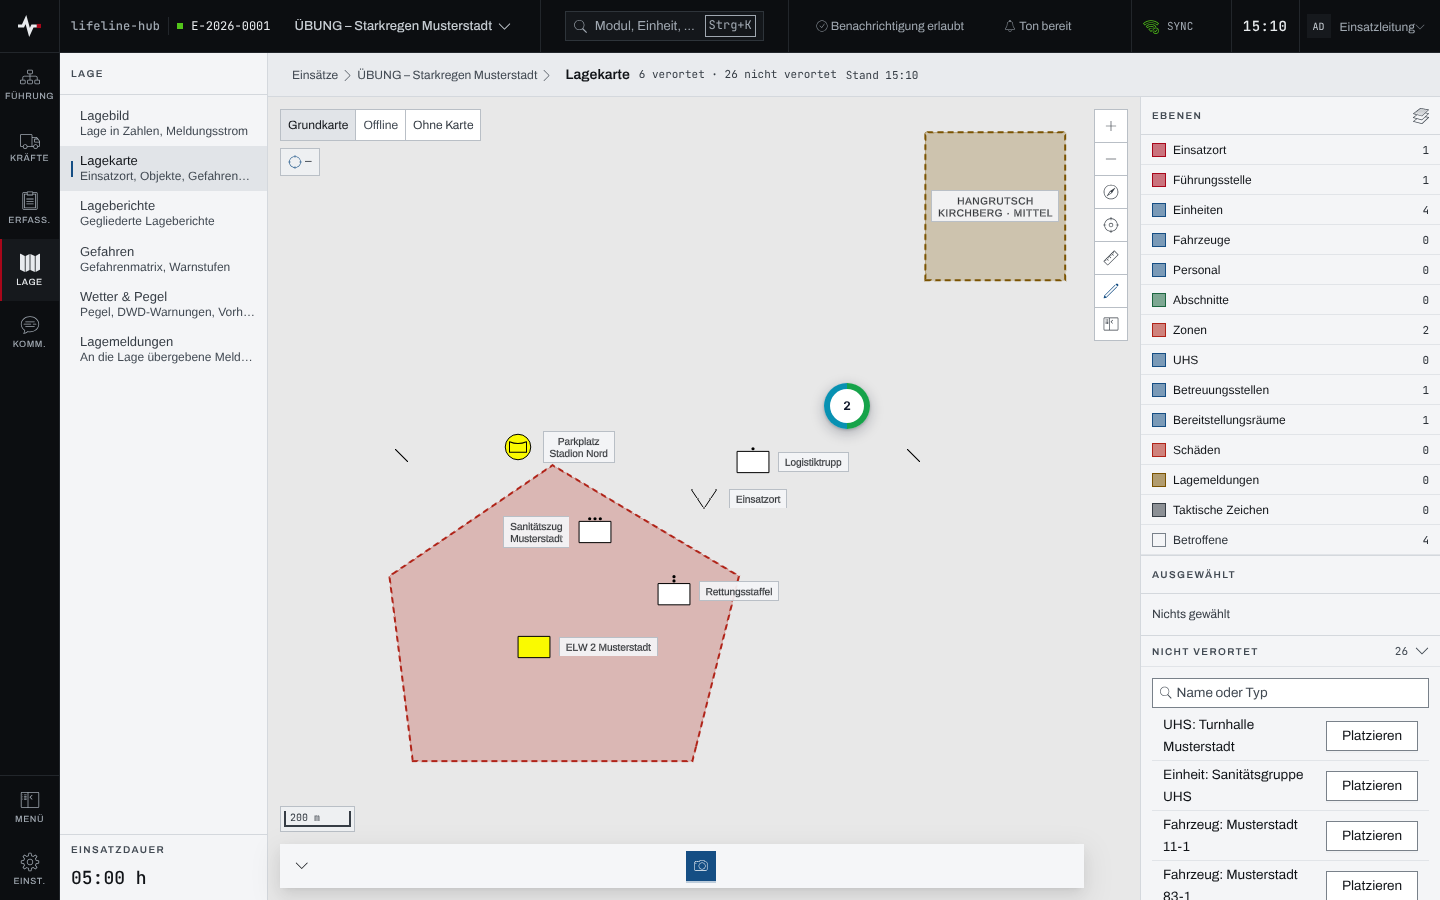
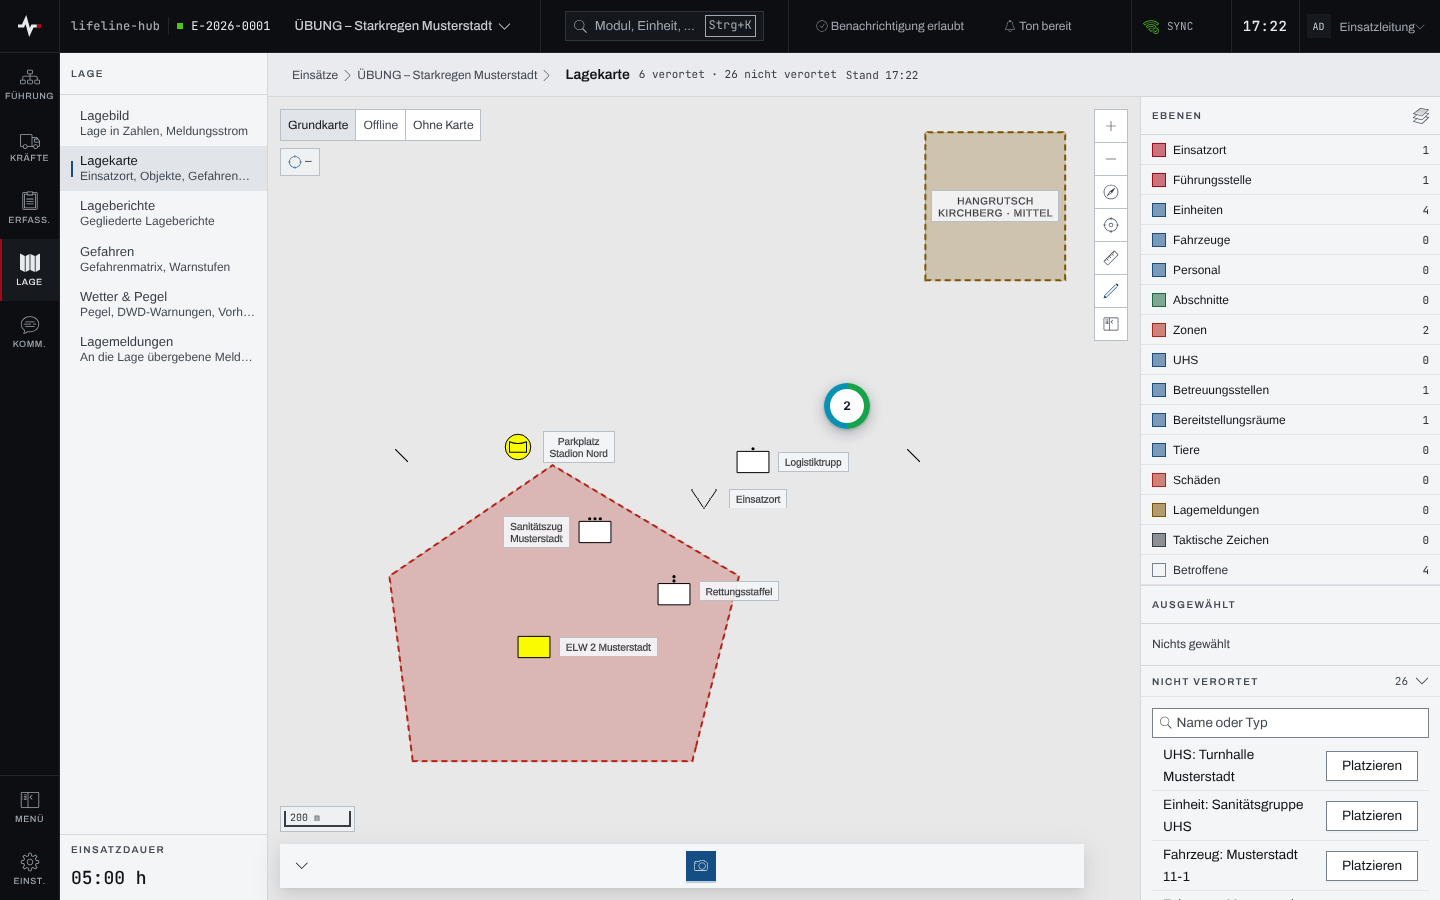
docs(tiere): Tiere auf der Lagekarte in Specs, Agentenregel und Anwenderdoku
Neue Spec tier-lagekarte, Objektsuche und Verortungsauftrag kennen
Tiere. Agentenregel „Tiere auf der Karte“ (Sperre an der Datenquelle,
Kreis mit „T“, bewusst nicht offline). Anwenderdoku: Ablauf „Ein Tier
auf der Lagekarte verorten“, Abschnitt Tiere in der Lagekarte, Bilder
der Lagekarte mit der Zeile „Tiere“ neu erzeugt.

Zunder: https://zunder.rubeen.dev/#/aufgabe/ootn0baux43dboivoge9x5xp

Claude-Session: https://claude.ai/code/session_018Cpy7o1GDJs7bcZgSvmWuh

Changed region(s): [[0.7812, 0.4978, 1.0, 1.0], [0.9688, 0.7467, 1.0, 0.7778]]

diff --git a/openspec/specs/tier-lagekarte/spec.md b/openspec/specs/tier-lagekarte/spec.md
@@ -1,0 +1,183 @@
+# tier-lagekarte Specification
+
+## Purpose
+Ein Tier hat einen Fundort. Neben dem Freitext trägt es eine optionale Koordinate, die ohne
+Tagebucheintrag gesetzt und live verteilt wird und im Lage-Snapshot erscheint, ohne die
+Modulfreigabe zu umgehen; die Schwärzung behält sie als Geo-Skelett. Die Lagekarte zeigt offene
+und vermisste Tiere als eigene Ebene, verortet sie aus der Detailseite oder aus „Nicht verortet“
+und führt zurück zur Detailseite (Gegenstück zu `bereitstellungsraum-lagekarte`).
+
+## Requirements
+
+### Requirement: Fundort-Koordinate eines Tiers
+
+Das System SHALL an einem Tier optional eine Fundort-Koordinate führen, bestehend aus Breite
+`antreff_lat` und Länge `antreff_lon`. Beide Werte MUST gemeinsam gesetzt oder gemeinsam leer
+sein, geprüft gegen den gespeicherten Stand des Tiers. Die Breite MUST zwischen −90 und 90
+liegen, die Länge zwischen −180 und 180; ein Verstoß MUST mit 422 abgelehnt werden, ohne etwas zu
+ändern. Die Koordinate MUST beim Anlegen mitgegeben und über denselben Änderungsweg gesetzt,
+geändert und entfernt werden können wie die übrigen Stammdaten. Fehlt sie in einer Änderung,
+bleibt sie unverändert; ist sie `null`, wird sie entfernt. Die Anzeige eines Tiers MUST die
+Koordinate tragen, wenn eine gesetzt ist, und das Feld sonst weglassen. Der Freitext `antreff_ort`
+MUST daneben unverändert bestehen bleiben.
+
+#### Scenario: Tier verorten
+- **WHEN** eine Person mit Schreibrecht am Tier T-007 `antreff_lat` 52,25 und `antreff_lon` 9,125 setzt
+- **THEN** trägt das Tier diese Koordinate, Liste und Detail liefern sie, und der Fundort-Freitext bleibt stehen
+
+#### Scenario: Anlegen mit Koordinate
+- **WHEN** ein Tier mit Spezies „Hund“, Fundort „Weide am Deich“ und Koordinate angelegt wird
+- **THEN** trägt das neue Tier Fundort und Koordinate
+
+#### Scenario: Nur ein Wert des Paares
+- **WHEN** eine Änderung nur `antreff_lat` setzt und das Tier bisher keine Koordinate hat
+- **THEN** antwortet das System mit 422 und ändert nichts
+
+#### Scenario: Halbes Paar entfernen
+- **WHEN** an einem verorteten Tier nur `antreff_lat` auf `null` gesetzt wird
+- **THEN** antwortet das System mit 422, und die Koordinate bleibt
+
+#### Scenario: Wert außerhalb des Bereichs
+- **WHEN** eine Änderung `antreff_lat` 91 und `antreff_lon` 9 setzt
+- **THEN** antwortet das System mit 422 und ändert nichts
+
+#### Scenario: Verortung entfernen
+- **WHEN** eine Änderung `antreff_lat` und `antreff_lon` jeweils auf `null` setzt
+- **THEN** trägt das Tier keine Koordinate mehr, und seine Anzeige enthält keines der beiden Felder
+
+#### Scenario: Verortung ändert keine anderen Angaben
+- **WHEN** eine Änderung nur die Koordinate setzt
+- **THEN** bleiben Rufname, Fundort, Notiz und Halter unverändert
+
+#### Scenario: Ohne Schreibrecht
+- **WHEN** eine Person mit Rolle „Beobachter“ die Koordinate setzen will
+- **THEN** antwortet das System mit 403
+
+### Requirement: Verortung ohne Tagebucheintrag, aber live
+
+Eine Änderung der Koordinate eines Tiers MUST keinen ETB-Eintrag schreiben. Sie MUST als Änderung
+des Tiers live an alle Personen mit Lesezugriff auf das Modul Tiere verteilt werden (Ereignis
+`tier` mit der Kennung des Tiers). ETB-Einträge des Moduls MUST NOT eine Koordinate enthalten.
+
+#### Scenario: Nur Koordinate geändert
+- **WHEN** ein Tier verortet wird und sonst nichts geändert wird
+- **THEN** entsteht kein ETB-Eintrag
+- **AND** Personen mit Lesezugriff auf das Modul Tiere erhalten ein Live-Ereignis zum Tier
+
+### Requirement: Lage-Snapshot und Schwärzung
+
+Ein Lage-Snapshot SHALL die offenen und vermissten, nicht stornierten Tiere des Einsatzes zum
+Zeitpunkt der Aufnahme einfrieren, mit Registriernummer, Status, Spezies, Rufname, Fundort und
+Koordinate, MUST NOT aber Halter, Kennzeichnung oder Notiz. Beim Abruf, beim Sichern und beim
+Ändern eines Standes MUST die Antwort diese Inhalte für Personen ohne Lesezugriff auf das Modul
+Tiere weglassen. Ein Snapshot ohne dieses Feld MUST als „keine Tiere“ gelten. Die Schwärzung
+eines Einsatzes MUST die Koordinate der Tiere als operatives Geo-Skelett erhalten und den
+Fundort-Freitext wie bisher leeren.
+
+#### Scenario: Stand sichern
+- **WHEN** ein Stand gesichert wird, während ein verortetes offenes Tier, ein vermisstes ohne Koordinate und ein abgeschlossenes Tier bestehen
+- **THEN** trägt der Stand die beiden ersten, das verortete mit Koordinate, und keinen Halterkontakt
+
+#### Scenario: Snapshot ohne Modulrecht
+- **WHEN** eine Person ohne Lesezugriff auf das Modul Tiere einen Snapshot abruft
+- **THEN** enthält die Antwort keine Tiere
+
+#### Scenario: Schwärzung
+- **WHEN** ein Einsatz geschwärzt wird
+- **THEN** bleibt die Koordinate der Tiere erhalten, während der Fundort-Freitext geleert wird
+
+### Requirement: Tiere als Marker
+
+Die Lagekarte SHALL jedes verortete Tier im Status „aktiv“ (offen) oder „vermisst“ als Marker an
+seiner Koordinate zeigen. Die Marker MUST eine eigene, schaltbare Ebene „Tiere“ bilden, die nach
+den Bereitstellungsräumen mit der Anzahl ihrer Marker in der Ebenenliste steht und ohne
+gespeicherte Wahl eingeschaltet ist. Da `@einsatzzeichen` nach DV 102 kein Zeichen „Tier“ ohne
+Zustand führt, MUST der Marker ein Kreis mit dem Kurzzeichen „T“ sein, kein eigenes Zeichen. Die
+Beschriftung MUST Registriernummer und Spezies tragen („T-007 (Hund)“), ohne Rufname. Ein
+vermisstes Tier MUST die Farbrolle „Achtung“ und in der Beschriftung das Wort „vermisst“ tragen.
+Abgeschlossene und stornierte Tiere MUST weder als Marker noch in einer Liste der Karte
+erscheinen. Die Auswahl eines Markers MUST Status, Spezies, Rufname und Fundort zeigen und einen
+Sprung zur Detailseite des Tiers anbieten. Jeder Marker MUST eine Trefferzone in der Steuerhöhe
+der aktiven Dichtestufe tragen. Die Ort-Vorschau MUST Tiere nicht als Bezugspunkte kennen.
+
+#### Scenario: Verortetes offenes Tier
+- **WHEN** der Hund T-007 im Status „aktiv“ verortet ist
+- **THEN** zeigt die Karte an seiner Koordinate einen Kreis mit „T“ und der Beschriftung „T-007 (Hund)“
+
+#### Scenario: Vermisstes Tier
+- **WHEN** die Katze T-002 im Status „vermisst“ verortet ist
+- **THEN** trägt ihr Marker die Farbrolle „Achtung“ und die Beschriftung „T-002 (Katze) · vermisst“
+
+#### Scenario: Abgeschlossenes Tier
+- **WHEN** für ein verortetes Tier der Verbleib erfasst wird
+- **THEN** verschwindet sein Marker von der Karte
+
+#### Scenario: Sprung zur Detailseite
+- **WHEN** der Marker ausgewählt und „Im Fachmodul öffnen“ gewählt wird
+- **THEN** öffnet sich die Detailseite dieses Tiers
+
+#### Scenario: Ebene ausblenden
+- **WHEN** die Ebene „Tiere“ ausgeschaltet wird
+- **THEN** zeigt die Karte keinen Tier-Marker
+
+### Requirement: Nicht verortete Tiere platzieren
+
+Die Lagekarte SHALL offene und vermisste Tiere ohne Koordinate in der Liste „Nicht verortet“
+führen. Eine Person mit Schreibrecht MUST ein solches Tier von dort aus durch einen Klick in die
+Karte verorten können. Die Adresse `/einsaetze/<id>/lagekarte?platzieren=tier:<tier-id>` MUST die
+Karte in den Platziermodus für dieses Tier schicken und den Parameter danach aus der Adresse
+entfernen; ohne Schreibrecht oder ohne Lesezugriff auf das Modul Tiere MUST der Platziermodus
+nicht betreten werden. Die Detailseite eines Tiers MUST ein Feld „Verortung“ zeigen, mit der
+Koordinate oder „nicht verortet“, und daneben einen Einstieg zu dieser Adresse, „Auf Karte
+verorten“ bzw. bei einem verorteten Tier „Auf Karte versetzen“, sofern die Person schreiben darf
+und das Tier weder storniert noch abgeschlossen ist; ist die Lagekarte für sie gesperrt, MUST der
+Einstieg gesperrt mit Grund im sichtbaren Text stehen. Im Bearbeiten-Modus der Detailseite MUST
+sich die Koordinate eingeben und leeren lassen; eine unlesbare Eingabe MUST das Speichern mit
+Meldung am Feld sperren. Das Verorten MUST keinen ETB-Eintrag schreiben. „Verortung löschen“ am
+ausgewählten Marker MUST die Koordinate ohne Rückfrage entfernen.
+
+#### Scenario: Aus der Detailseite verorten
+- **WHEN** eine Person mit Schreibrecht an T-001 „Auf Karte verorten“ wählt und in die Karte klickt
+- **THEN** trägt das Tier die Koordinate des Klickpunkts, erscheint als Marker, und die Adresse enthält kein `platzieren` mehr
+- **AND** es entsteht kein ETB-Eintrag
+- **AND** „Zurück zu T-001 (Hund)“ führt auf die Detailseite, die nun „Auf Karte versetzen“ anbietet
+
+#### Scenario: Aus der Liste platzieren
+- **WHEN** eine Person mit Schreibrecht in „Nicht verortet“ das Tier „T-004 (Hund)“ wählt und in die Karte klickt
+- **THEN** trägt das Tier die Koordinate des Klickpunkts und steht nicht mehr in „Nicht verortet“
+
+#### Scenario: Ohne Modulrecht
+- **WHEN** eine Person ohne Lesezugriff auf das Modul Tiere die Platzieren-Adresse aufruft
+- **THEN** betritt die Karte keinen Platziermodus, und der Parameter verschwindet aus der Adresse
+
+#### Scenario: Abgeschlossenes oder storniertes Tier
+- **WHEN** die Detailseite eines abgeschlossenen oder stornierten Tiers geöffnet wird
+- **THEN** steht „nicht verortet“ bzw. die Koordinate ohne Einstieg zur Karte
+
+#### Scenario: Verortung entfernen
+- **WHEN** eine Person mit Schreibrecht am ausgewählten Marker „Verortung löschen“ wählt
+- **THEN** verliert das Tier seine Koordinate und steht wieder in „Nicht verortet“
+
+### Requirement: Modulfreigabe, gesicherter Stand und Betrieb ohne Netz
+
+Die Lagekarte MUST die Tiere nur anfragen, wenn der Server das Modul Tiere für die Person freigibt;
+ohne bekannte Freigaben MUST sie nicht anfragen. Ein gesperrtes Modul MUST in der Ebenenliste als
+gesperrte Zeile mit Grund und ohne Zahl stehen, ein im Einsatz ausgeblendetes Modul ohne Zeile;
+beides MUST NOT als Ausfall einer Lagebild-Quelle gemeldet werden, auch nicht eine trotz Freigabe
+mit 403 abgelehnte Liste. Die Objektsuche der Karte MUST ohne Freigabe kein Tier finden.
+Änderungen an Koordinate und Status MUST die Karte ohne Neuladen erreichen. Im gesicherten Stand
+MUST die Karte die eingefrorenen Tiere zeigen; ein Stand ohne Tiere MUST keinen Fehler melden.
+Die Tierliste MUST NOT in das Lagebild für den Betrieb ohne Netz aufgenommen werden, weil sie
+Halterkontakt und Kennzeichnung trägt; ohne Netz zeigt die Karte keine Tiere.
+
+#### Scenario: Ohne Freigabe
+- **WHEN** der Server einer Person das Modul Tiere verweigert
+- **THEN** fragt die Karte keine Tiere an, zeigt die Ebene gesperrt mit Grund und meldet keinen Ausfall
+
+#### Scenario: Echter Ausfall
+- **WHEN** die Tierliste bei freiem Modul mit einem Serverfehler scheitert
+- **THEN** nennt der Ausfallhinweis der Karte „Tiere“
+
+#### Scenario: Historienansicht
+- **WHEN** ein gesicherter Stand mit einem verorteten Tier aufgerufen wird
+- **THEN** zeigt die Karte das Tier an der eingefrorenen Koordinate

diff --git a/docs/anwender/kapitel/lagekarte.md b/docs/anwender/kapitel/lagekarte.md
@@ -2,7 +2,7 @@
 titel: Lagekarte, Zeichnen und Messen
 gruppen: [alle, fuehrung]
 reihenfolge: 220
-quellen: [frontend/src/pages/LagekartePage.tsx, frontend/src/pages/lagekarte/Sidebar.tsx, frontend/src/pages/lagekarte/KartenUeberlagerung.tsx, frontend/src/pages/lagekarte/leistenDaten.ts, frontend/src/pages/lagekarte/MessSteuerung.tsx, frontend/src/pages/lagekarte/ZeichnenSteuerung.tsx, frontend/src/pages/lagekarte/zeichnenEsc.ts, frontend/src/pages/lagekarte/FreiesZeichenPicker.tsx, frontend/src/pages/lagekarte/PlatzierSteuerung.tsx, frontend/src/pages/lagekarte/useKartenInteraktion.ts, frontend/src/pages/lagekarte/verortungsauftrag.ts, frontend/src/pages/lagekarte/klickziel.ts, frontend/src/pages/lagekarte/kontextmenue.ts, frontend/src/pages/lagekarte/zeichenWahl.ts, frontend/src/pages/lagekarte/FreiesZeichenInspector.tsx, frontend/src/zeichen/freiesZeichen.ts, frontend/src/pages/lagekarte/taktischesZeichen.ts, frontend/src/pages/lagekarte/marker.ts, frontend/src/pages/lagekarte/brEbene.ts, frontend/src/pages/lagekarte/geplantRing.ts, frontend/src/einsatz/schreibrecht.ts, frontend/src/api/queryKeys.ts, frontend/src/pages/lagekarte/basemapStil.ts, src/routes/karte.rs, src/routes/lage_zone.rs]
+quellen: [frontend/src/pages/LagekartePage.tsx, frontend/src/pages/lagekarte/Sidebar.tsx, frontend/src/pages/lagekarte/KartenUeberlagerung.tsx, frontend/src/pages/lagekarte/leistenDaten.ts, frontend/src/pages/lagekarte/MessSteuerung.tsx, frontend/src/pages/lagekarte/ZeichnenSteuerung.tsx, frontend/src/pages/lagekarte/zeichnenEsc.ts, frontend/src/pages/lagekarte/FreiesZeichenPicker.tsx, frontend/src/pages/lagekarte/PlatzierSteuerung.tsx, frontend/src/pages/lagekarte/useKartenInteraktion.ts, frontend/src/pages/lagekarte/verortungsauftrag.ts, frontend/src/pages/lagekarte/klickziel.ts, frontend/src/pages/lagekarte/kontextmenue.ts, frontend/src/pages/lagekarte/zeichenWahl.ts, frontend/src/pages/lagekarte/FreiesZeichenInspector.tsx, frontend/src/zeichen/freiesZeichen.ts, frontend/src/pages/lagekarte/taktischesZeichen.ts, frontend/src/pages/lagekarte/marker.ts, frontend/src/pages/lagekarte/brEbene.ts, frontend/src/pages/lagekarte/tierEbene.ts, frontend/src/pages/lagekarte/tierMarker.ts, frontend/src/pages/lagekarte/geplantRing.ts, frontend/src/einsatz/schreibrecht.ts, frontend/src/api/queryKeys.ts, frontend/src/pages/lagekarte/basemapStil.ts, src/routes/karte.rs, src/routes/lage_zone.rs]
 ---
 
 ## Überblick
@@ -29,9 +29,9 @@ wer im Einsatz schreiben darf.
 
 ### Ein Objekt von seiner Seite aus verorten
 
-1. Auf der Seite einer Person „Auf Lagekarte verorten“ wählen, auf der Seite eines Schadens oder
-   Bereitstellungsraums „Auf Karte verorten“, für eine Betreuungsstelle „Auf Karte verorten“ in
-   ihrem Menü. Die Lagekarte öffnet sich zum Platzieren dieses Objekts.
+1. Auf der Seite einer Person „Auf Lagekarte verorten“ wählen, auf der Seite eines Schadens,
+   Bereitstellungsraums oder Tiers „Auf Karte verorten“, für eine Betreuungsstelle „Auf Karte
+   verorten“ in ihrem Menü. Die Lagekarte öffnet sich zum Platzieren dieses Objekts.
 2. Auf die Stelle der Karte tippen, an die das Objekt gehört. Die Karte fliegt den neuen Marker
    an und zeigt ihn unter „Ausgewählt“. Oben in der Leiste, am Handy im Band unten auf der Karte,
    steht die Kennung mit „verortet“, etwa „R-005 verortet“.
@@ -150,6 +150,16 @@ Seite heraus oder unter „Nicht verortet“ (Kapitel [Bereitstellungsräume](be
 Wer das Modul Bereitstellungsräume nicht sehen darf, sieht die Ebene gesperrt mit „Keine
 Berechtigung“ und findet keinen Raum in der Suche.
 
+### Tiere
+
+Die Ebene „Tiere“ zeigt offene und vermisste Tiere mit Koordinate als Kreis mit „T“, beschriftet
+mit Registriernummer und Spezies, etwa „T-003 (Hund)“; ein vermisstes Tier trägt zusätzlich
+„vermisst“. Ein abgeschlossenes Tier fehlt. Ausgewählt zeigt die Karte Status, Spezies, Rufname
+und Fundort und springt mit „Im Fachmodul öffnen“ zur Seite des Tiers. Verortet wird ein Tier aus
+seiner Seite heraus oder unter „Nicht verortet“ (Kapitel [Tiere](tiere.md)). Wer das Modul Tiere
+nicht sehen darf, sieht die Ebene gesperrt mit „Keine Berechtigung“ und findet kein Tier in der
+Suche.
+
 ### Die eigene Führungsstelle
 
 Trägt die eigene Führungsstelle in den Einsatzdaten eine Koordinate, steht sie auf der Karte mit
@@ -162,8 +172,8 @@ in einem früheren Lagestand fehlt sie.
 
 Zonen, Zeichen, Gefahrengebiete, Schäden, Lagemeldungen, Kartenbilder und die übrigen Objekte der
 Karte hält die App für die Arbeit ohne Netz vor (Kapitel [Arbeiten ohne Netz](ohne-netz.md)).
-Ausgenommen sind die Bereitstellungsräume: nach einem Neuladen ohne Netz fehlen sie auf der
-Karte.
+Ausgenommen sind die Bereitstellungsräume und die Tiere: nach einem Neuladen ohne Netz fehlen
+sie auf der Karte.
 
 Die Kartengrundlage ist davon getrennt: Eine Online-Karte holt der Server aus dem Internet,
 „Offline“ zeigt eine Karte, die auf dem Server selbst liegt, und kommt ohne Internet aus. Ist eine

diff --git a/docs/anwender/kapitel/tiere.md b/docs/anwender/kapitel/tiere.md
@@ -2,7 +2,7 @@
 titel: Tiere
 gruppen: [alle, fuehrung]
 reihenfolge: 540
-quellen: [frontend/src/pages/TierePage.tsx, frontend/src/pages/TiereDetailPage.tsx, frontend/src/pages/tiere/tierHelfer.ts, frontend/src/personen/HalterPicker.tsx, frontend/src/personen/ZuweisungsDialoge.tsx, frontend/src/components/VerlassenRueckfrage.tsx, src/routes/einsatz_tier.rs, src/tier/mod.rs]
+quellen: [frontend/src/pages/TierePage.tsx, frontend/src/pages/TiereDetailPage.tsx, frontend/src/pages/tiere/tierHelfer.ts, frontend/src/personen/HalterPicker.tsx, frontend/src/personen/ZuweisungsDialoge.tsx, frontend/src/components/VerlassenRueckfrage.tsx, frontend/src/pages/tiere/TierVerortung.tsx, frontend/src/pages/lagekarte/tierMarker.ts, src/routes/einsatz_tier.rs, src/tier/mod.rs]
 ---
 
 ## Überblick
@@ -64,6 +64,20 @@ Umgekehrt ordnet „Bezug hinzufügen“ unter „Bezüge“ auf der Seite einer
 Tier zu, das noch keinen Halter hat ([Betroffene und Sichtung](betroffene.md)). Die Liste der
 Tiere zeigt den Halter dann mit seiner Registriernummer.
 
+### Ein Tier auf der Lagekarte verorten
+
+1. Die Seite des Tiers öffnen. Das Feld „Verortung“ zeigt die Koordinate des Fundorts oder
+   „nicht verortet“.
+2. „Auf Karte verorten“ wählen, bei einem schon verorteten Tier „Auf Karte versetzen“. Die
+   Lagekarte öffnet sich zum Platzieren dieses Tiers.
+3. Auf die Stelle der Karte tippen, an der das Tier gefunden wurde. Die Karte meldet etwa „T-003
+   (Hund) verortet“.
+4. „Zurück zu T-003 (Hund)“ wählen: Die Seite des Tiers zeigt die neue Koordinate.
+
+Ein Tier ohne Koordinate lässt sich auch auf der Lagekarte unter „Nicht verortet“ platzieren
+(Kapitel [Lagekarte, Zeichnen und Messen](lagekarte.md)). Unter „Bearbeiten“ lässt sich die
+Koordinate eintippen oder leeren.
+
 ### Den Verbleib eines Tiers erfassen
 
 Verlässt ein Tier die Obhut der Einsatzkräfte, wird sein Verbleib erfasst. Es gilt danach als
@@ -96,6 +110,18 @@ will, bekommt die Rückfrage „Ungespeicherte Änderungen“: „Bleiben“ beh
 „Verwerfen“ verlässt die Seite ohne sie. Fotos und Dateien zum Tier liegen auf seiner Seite.
 „Stornieren“ im Menü „Weitere Aktionen“ nimmt eine Fehlerfassung aus der Liste.
 
+### Tiere auf der Lagekarte
+
+Die Lagekarte zeigt offene und vermisste Tiere mit Koordinate in der Ebene „Tiere“, als Kreis mit
+„T“ und beschriftet mit Registriernummer und Spezies, etwa „T-003 (Hund)“. Ein vermisstes Tier
+trägt zusätzlich „vermisst“. Den Rufnamen zeigt die Karte erst, wenn das Tier ausgewählt ist.
+Ein abgeschlossenes oder storniertes Tier verschwindet von der Karte; verorten lässt sich nur ein
+offenes oder vermisstes Tier. Der Fundort als Text bleibt neben der Koordinate stehen. Das
+Verorten schreibt keinen Eintrag ins Einsatztagebuch.
+
+Für ein Tier ohne Zustand kennen die taktischen Zeichen nach DV 102 kein eigenes Zeichen, deshalb
+steht das Tier als Kreis auf der Karte.
+
 ### Einsatztagebuch
 
 Das Einsatztagebuch führt Tiere nur mit Registriernummer und Spezies, ohne Rufname, Kennzeichnung,
@@ -116,5 +142,6 @@ Modul sehen.
 
 ### Ohne Netz
 
-Die Tiere hält die App nicht für die Arbeit ohne Netz vor; erfassen und ändern gehen nur mit Netz
-([Arbeiten ohne Netz](ohne-netz.md)).
+Die Tiere hält die App nicht für die Arbeit ohne Netz vor; erfassen, ändern und verorten gehen
+nur mit Netz ([Arbeiten ohne Netz](ohne-netz.md)). Auch die Ebene „Tiere“ der Lagekarte bleibt
+nach einem Neuladen ohne Netz leer, weil die Liste Halter und Kennzeichnung trägt.

diff --git a/openspec/specs/lagekarte-objektsuche/spec.md b/openspec/specs/lagekarte-objektsuche/spec.md
@@ -11,7 +11,7 @@ Die Kartenleiste SHALL im Paneel „Verortet“ ein Suchfeld anbieten, das die B
 wählbaren verorteten Kartenobjekte und ihre Objektart ohne Rücksicht auf Groß- und
 Kleinschreibung durchsucht.
 Wählbar sind Einsatzort, UHS, Schäden, Einheiten, Fahrzeuge, Führung, Einsatzabschnitte,
-Lagemeldungen, freie taktische Zeichen, Betreuungsstellen, Bereitstellungsräume und Betroffene,
+Lagemeldungen, freie taktische Zeichen, Betreuungsstellen, Bereitstellungsräume, Tiere und Betroffene,
 jeweils nur unter
 den Bedingungen der Anforderung „Modulsperren“. Die Treffer MUST nach Objektart gruppiert
 stehen, jede Gruppe mit Objektart und Trefferzahl in der Kopfzeile. Gruppen ohne Treffer MUST
@@ -63,7 +63,7 @@ Spec `lagekarte-ortssuche`), MUST statt des Leerzustands der Fläche nur ein kna
 
 ### Requirement: Modulsperren
 Die Suche MUST Betreuungsstellen nur enthalten, wenn das Modul Betreuung für die Person frei
-ist, Bereitstellungsräume nur, wenn das Modul Bereitstellungsräume frei ist, und Betroffene nur, wenn das Modul Personen frei ist und die Ebene „Betroffene“ auf der
+ist, Bereitstellungsräume nur, wenn das Modul Bereitstellungsräume frei ist, Tiere nur, wenn das Modul Tiere frei ist, und Betroffene nur, wenn das Modul Personen frei ist und die Ebene „Betroffene“ auf der
 Karte eingeschaltet ist. Ist ein Modul ausgeblendet, gesperrt oder vom Server mit 403
 abgelehnt, MUST kein Name aus diesem Modul in der Suche erscheinen, auch nicht als Treffer
 eines passenden Suchbegriffs.
@@ -79,6 +79,10 @@ eines passenden Suchbegriffs.
 #### Scenario: Ohne Recht auf Bereitstellungsräume
 - **WHEN** das Modul Bereitstellungsräume gesperrt ist und der Raum „BR Sportplatz“ in den Daten stünde
 - **THEN** findet die Suche nach „sportplatz“ nichts, und keine Gruppe „Bereitstellungsraum“ erscheint
+
+#### Scenario: Ohne Recht auf Tiere
+- **WHEN** das Modul Tiere gesperrt ist und das Tier „T-005 (Hund)“ in den Daten stünde
+- **THEN** findet die Suche nach „t-005“ nichts, und keine Gruppe „Tier“ erscheint
 
 #### Scenario: Betroffene nur mit Recht und Ebene
 - **WHEN** das Modul Personen gesperrt ist oder die Ebene „Betroffene“ aus ist

diff --git a/frontend/src/pages/lagekarte/AGENTS.md b/frontend/src/pages/lagekarte/AGENTS.md
@@ -62,12 +62,19 @@ diese Zusage.
   `spider-geplant`, Klickziel wie der Statusring) plus das Wort „geplant“, nie eine Farbe.
   Die Räume fließen über die Marker-Quelle, also ohne eigenen Schlüssel für
   `wendeKartenDatenAn` (sie gehen mit `marker`).
+- **Tiere auf der Karte** (LLH-1123, Spec `tier-lagekarte`): Muster der Bereitstellungsräume
+  (`alleVerortet`, „Nicht verortet“, `?platzieren=tier:<id>`, Sperre an der Datenquelle
+  `pages/lagekarte/tierEbene.ts`, Fach `einsatzKeys.tiere`). Nur `aktiv` und `vermisst` stehen auf der
+  Karte, abgeschlossene und stornierte nie. DV 102 kennt kein Tier ohne Zustand: der Marker bleibt
+  ein Kreis mit Kurzzeichen „T“ (`tierMarker.ts`), kein Eigenbau-Zeichen; vermisst heißt Rolle
+  `achtung` plus das Wort „vermisst“. Die Liste trägt Halterkontakt und Kennzeichnung, deshalb
+  bewusst nicht in `LAGEBILD_OFFLINE`.
 - **Kartenquellen eines fremden Moduls laden nur mit Freigabe des Servers** (LFH-669, Spec
   `modul-freigabe`, `openspec/changes/archive/2026-10-01-lfh-669-modulfreigabe-vom-server/design.md` D4):
   `useLagekarteDaten` fragt UHS, Schäden, Einheiten, Fahrzeuge, Abschnitte, Gefahrengebiete,
-  Lagemeldungen und Rückmeldungen nur bei `istKeyFreigegeben(<modul>, freigaben)` ab, Betreuung
-  und Bereitstellungsräume über ihren Ebenen-Zugriff (`betreuungEbene.ts`, `brEbene.ts`), ohne
-  bekannte Freigaben gar nicht. Gesperrt ist kein Ausfall (keine Rohdaten, kein Eintrag im
+  Lagemeldungen und Rückmeldungen nur bei `istKeyFreigegeben(<modul>, freigaben)` ab, Betreuung,
+  Bereitstellungsräume und Tiere über ihren Ebenen-Zugriff (`betreuungEbene.ts`, `brEbene.ts`,
+  `tierEbene.ts`), ohne bekannte Freigaben gar nicht. Gesperrt ist kein Ausfall (keine Rohdaten, kein Eintrag im
   Ausfallhinweis); fehlen die Freigaben, nennt der Ausfallhinweis „Berechtigungen“. Eine neue
   modulgebundene Quelle bekommt dasselbe Gate; der Modul-Key folgt `PFAD_KEY` in
   `src/einsatz/modul.rs`.

diff --git a/openspec/specs/lagekarte-verortungsauftrag/spec.md b/openspec/specs/lagekarte-verortungsauftrag/spec.md
@@ -2,7 +2,7 @@
 
 ## Purpose
 Legt fest, wie die Lagekarte einen Verortungsauftrag von außen ausführt (Person, Schaden,
-Betreuungsstelle, Bereitstellungsraum). Das Verortete muss danach sichtbar sein, und es gibt
+Betreuungsstelle, Bereitstellungsraum, Tier). Das Verortete muss danach sichtbar sein, und es gibt
 einen sicheren Rückweg zum Datensatz.
 
 ## Requirements
